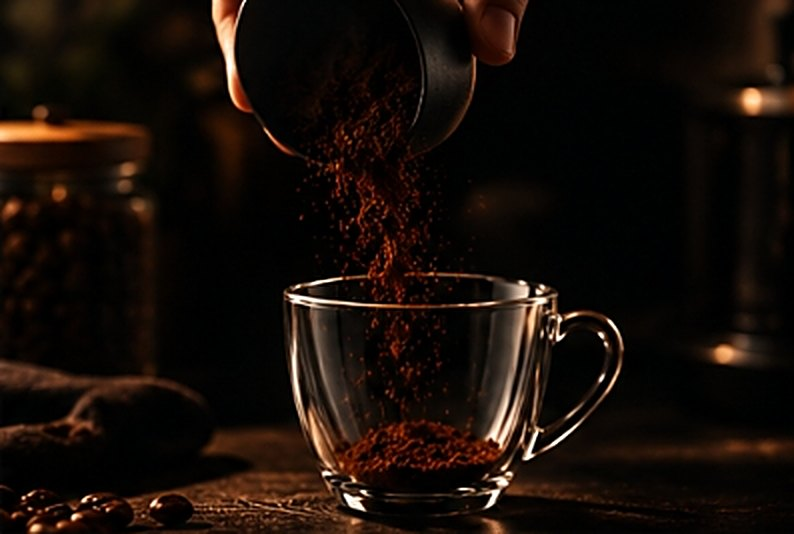
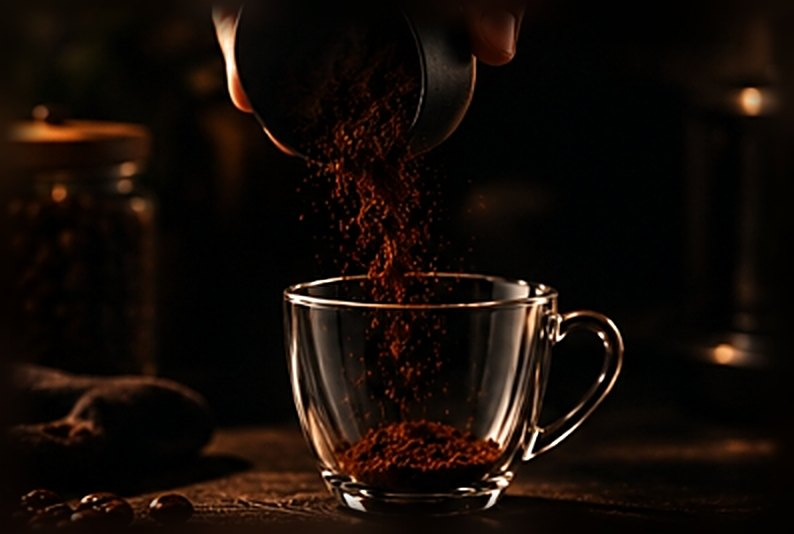
Filme toca sozinho, em loop, com câmera contínua
Volta a tocar automaticamente (cerca de 30 s) com fade do preto entre as
voltas; a abertura volta a ter uma tela de altura. A câmera segue uma
curva contínua entre os quadros, sem paradas, e as fusões ficaram mais
longas. O fundo desfocado e as bordas esfumadas agora vêm prontos nas
imagens, sem filtros no navegador, para rodar leve no celular.

Claude-Session: https://claude.ai/code/session_01HkmzzNXFdck3yYgHHjWYQh

diff --git a/index.html b/index.html
@@ -252,8 +252,11 @@ main .btn, main .tab { text-shadow: none; }
   position: relative; min-height: 70vh; display: grid; place-items: center; overflow: hidden;
   isolation: isolate;
 }
-.film-on .film { height: 640vh; }
-.film-on .film-sticky { position: sticky; top: 0; height: 100vh; height: 100svh; min-height: 0; }
+.film-on .film-sticky {
+  height: calc(100vh - var(--header-h));
+  height: calc(100svh - var(--header-h) - env(safe-area-inset-top, 0px));
+  min-height: 480px;
+}
 .film-bg {
   position: fixed; left: 0; right: 0; top: 0; z-index: 0; pointer-events: none; overflow: hidden;
   height: 100vh; height: 100lvh; background: #0a0604;
@@ -263,19 +266,12 @@ main .btn, main .tab { text-shadow: none; }
 .film-frames { position: absolute; inset: 0; }
 .ff { position: absolute; inset: 0; overflow: hidden; opacity: 0; }
 .ff:first-child { opacity: 1; }
-.ff-fill {
-  position: absolute; inset: 0; width: 100%; height: 100%; object-fit: cover;
-  filter: blur(26px) brightness(.5) saturate(1.1); transform: scale(1.15);
-}
+.ff-fill { position: absolute; inset: 0; width: 100%; height: 100%; object-fit: cover; }
 .ff-img { position: absolute; inset: 0; width: 100%; height: 100%; object-fit: cover; }
 .film-on .ff { visibility: hidden; will-change: opacity; }
 .film-on .ff-img {
   inset: auto; left: 0; top: 0; width: auto; height: auto; max-width: none; object-fit: fill;
   transform-origin: 0 0; will-change: transform;
-  -webkit-mask-image: linear-gradient(to right, transparent, #000 7%, #000 93%, transparent), linear-gradient(to bottom, transparent, #000 8%, #000 92%, transparent);
-  -webkit-mask-composite: source-in;
-  mask-image: linear-gradient(to right, transparent, #000 7%, #000 93%, transparent), linear-gradient(to bottom, transparent, #000 8%, #000 92%, transparent);
-  mask-composite: intersect;
 }
 .film-bg::after {
   content: ""; position: absolute; inset: 0; pointer-events: none; z-index: 1;
@@ -348,12 +344,11 @@ main .btn, main .tab { text-shadow: none; }
   padding-left: var(--gutter-l); padding-right: var(--gutter-r);
   opacity: 0; visibility: hidden;
 }
-.film-end p { font: 600 clamp(1.3rem, 5.4vw, 2.4rem)/1.25 var(--font-display); letter-spacing: .22em; text-transform: uppercase; color: var(--film-gold); }
+.film-end p { font: 600 clamp(1.3rem, 5.4vw, 2.4rem)/1.25 var(--font-display); letter-spacing: .22em; text-transform: uppercase; color: var(--film-gold); text-shadow: 0 2px 22px rgba(0, 0, 0, .9), 0 0 2px rgba(0, 0, 0, .6); }
 @media (min-width: 760px) {
   .film-caption { bottom: 64px; }
   .film-bar { bottom: 40px; max-width: 420px; }
   .bg-pause { bottom: 24px; }
-  .film-on .film { height: 720vh; }
 }
 @media (hover: hover) and (pointer: fine) {
   .film-skip, .bg-pause { transition: color 160ms ease, border-color 160ms ease; }
@@ -405,19 +400,19 @@ main .btn, main .tab { text-shadow: none; }
 
 <div class="film-bg" aria-hidden="true">
   <div class="film-frames" id="filmFrames">
-    <div class="ff"><img class="ff-fill" src="film/f01.jpg" alt="" decoding="async"><img class="ff-img" src="film/f01.jpg" width="796" height="534" alt="" decoding="async"></div>
-    <div class="ff"><img class="ff-fill" src="film/f02.jpg" alt="" decoding="async"><img class="ff-img" src="film/f02.jpg" width="806" height="534" alt="" decoding="async"></div>
-    <div class="ff"><img class="ff-fill" src="film/f03.jpg" alt="" decoding="async"><img class="ff-img" src="film/f03.jpg" width="794" height="534" alt="" decoding="async"></div>
-    <div class="ff"><img class="ff-fill" src="film/f04.jpg" alt="" decoding="async"><img class="ff-img" src="film/f04.jpg" width="796" height="532" alt="" decoding="async"></div>
-    <div class="ff"><img class="ff-fill" src="film/f05.jpg" alt="" decoding="async"><img class="ff-img" src="film/f05.jpg" width="806" height="532" alt="" decoding="async"></div>
-    <div class="ff"><img class="ff-fill" src="film/f06.jpg" alt="" decoding="async"><img class="ff-img" src="film/f06.jpg" width="794" height="532" alt="" decoding="async"></div>
-    <div class="ff"><img class="ff-fill" src="film/f07.jpg" alt="" decoding="async"><img class="ff-img" src="film/f07.jpg" width="796" height="528" alt="" decoding="async"></div>
-    <div class="ff"><img class="ff-fill" src="film/f08.jpg" alt="" decoding="async"><img class="ff-img" src="film/f08.jpg" width="596" height="540" alt="" decoding="async"></div>
-    <div class="ff"><img class="ff-fill" src="film/f09.jpg" alt="" decoding="async"><img class="ff-img" src="film/f09.jpg" width="598" height="540" alt="" decoding="async"></div>
-    <div class="ff"><img class="ff-fill" src="film/f10.jpg" alt="" decoding="async"><img class="ff-img" src="film/f10.jpg" width="594" height="540" alt="" decoding="async"></div>
-    <div class="ff"><img class="ff-fill" src="film/f11.jpg" alt="" decoding="async"><img class="ff-img" src="film/f11.jpg" width="594" height="664" alt="" decoding="async"></div>
-    <div class="ff"><img class="ff-fill" src="film/f12.jpg" alt="" decoding="async"><img class="ff-img" src="film/f12.jpg" width="596" height="664" alt="" decoding="async"></div>
-    <div class="ff"><img class="ff-fill" src="film/f13.jpg" alt="" decoding="async"><img class="ff-img" src="film/f13.jpg" width="598" height="664" alt="" decoding="async"></div>
+    <div class="ff"><img class="ff-fill" src="film/f01-bg.jpg" alt="" decoding="async"><img class="ff-img" src="film/f01.jpg" width="796" height="534" alt="" decoding="async"></div>
+    <div class="ff"><img class="ff-fill" src="film/f02-bg.jpg" alt="" decoding="async"><img class="ff-img" src="film/f02.jpg" width="806" height="534" alt="" decoding="async"></div>
+    <div class="ff"><img class="ff-fill" src="film/f03-bg.jpg" alt="" decoding="async"><img class="ff-img" src="film/f03.jpg" width="794" height="534" alt="" decoding="async"></div>
+    <div class="ff"><img class="ff-fill" src="film/f04-bg.jpg" alt="" decoding="async"><img class="ff-img" src="film/f04.jpg" width="796" height="532" alt="" decoding="async"></div>
+    <div class="ff"><img class="ff-fill" src="film/f05-bg.jpg" alt="" decoding="async"><img class="ff-img" src="film/f05.jpg" width="806" height="532" alt="" decoding="async"></div>
+    <div class="ff"><img class="ff-fill" src="film/f06-bg.jpg" alt="" decoding="async"><img class="ff-img" src="film/f06.jpg" width="794" height="532" alt="" decoding="async"></div>
+    <div class="ff"><img class="ff-fill" src="film/f07-bg.jpg" alt="" decoding="async"><img class="ff-img" src="film/f07.jpg" width="796" height="528" alt="" decoding="async"></div>
+    <div class="ff"><img class="ff-fill" src="film/f08-bg.jpg" alt="" decoding="async"><img class="ff-img" src="film/f08.jpg" width="596" height="540" alt="" decoding="async"></div>
+    <div class="ff"><img class="ff-fill" src="film/f09-bg.jpg" alt="" decoding="async"><img class="ff-img" src="film/f09.jpg" width="598" height="540" alt="" decoding="async"></div>
+    <div class="ff"><img class="ff-fill" src="film/f10-bg.jpg" alt="" decoding="async"><img class="ff-img" src="film/f10.jpg" width="594" height="540" alt="" decoding="async"></div>
+    <div class="ff"><img class="ff-fill" src="film/f11-bg.jpg" alt="" decoding="async"><img class="ff-img" src="film/f11.jpg" width="594" height="664" alt="" decoding="async"></div>
+    <div class="ff"><img class="ff-fill" src="film/f12-bg.jpg" alt="" decoding="async"><img class="ff-img" src="film/f12.jpg" width="596" height="664" alt="" decoding="async"></div>
+    <div class="ff"><img class="ff-fill" src="film/f13-bg.jpg" alt="" decoding="async"><img class="ff-img" src="film/f13.jpg" width="598" height="664" alt="" decoding="async"></div>
   </div>
   <canvas class="film-canvas" id="filmCanvas"></canvas>
   <div class="film-grain" id="filmGrain"></div>
@@ -445,7 +440,6 @@ main .btn, main .tab { text-shadow: none; }
       <div class="film-title" id="filmTitle">
         <span class="eyebrow">Torra Lenta apresenta</span>
         <h2>Do grão à xícara</h2>
-        <span class="film-hint"><i></i>Role para assistir</span>
       </div>
       <div class="film-end" id="filmEnd">
         <p>Café é sempre<br>uma boa ideia</p>
@@ -777,7 +771,7 @@ main .btn, main .tab { text-shadow: none; }
 })();
 </script>
 <script>
-/* ---------- Filme: as imagens de referência viram um comercial, conduzido pela rolagem ---------- */
+/* ---------- Filme: as imagens de referência viram um comercial que toca sozinho ---------- */
 (function () {
   var section = document.getElementById("filme");
   var stage = document.getElementById("filmFrames");
@@ -790,7 +784,7 @@ main .btn, main .tab { text-shadow: none; }
   function clamp(v) { return v < 0 ? 0 : v > 1 ? 1 : v; }
   function lerp(a, b, k) { return a + (b - a) * k; }
   function seg(p, a, b) { return clamp((p - a) / (b - a)); }
-  function smooth(k) { return k * k * (3 - 2 * k); }
+  function ease(k) { return .5 - .5 * Math.cos(PI * k); }
   function hash(n) { var x = Math.sin(n * 127.1 + 311.7) * 43758.5453; return x - Math.floor(x); }
 
   var STEPS = [
@@ -798,26 +792,26 @@ main .btn, main .tab { text-shadow: none; }
     "O café cai na xícara", "Grão a grão, ele se acumula", "Pronto para a água",
     "A água quente encontra o pó", "Nasce a crema", "O aroma toma conta", "Bons momentos começam aqui"
   ];
-  // Cada quadro: passo da legenda, peso no tempo, grupo de câmera (A ou B) ou enquadramento próprio.
+  // Cada quadro: passo da legenda, duração em segundos, grupo de câmera (A, B ou C) ou enquadramento próprio.
   // "a": alinhamento ao quadro de referência do grupo, medido por correlação de imagem
   //      [largura relativa, deslocamento x, deslocamento y], em larguras da referência.
   // "cam": grupo -> [altura da borda da xícara na tela, zoom]; próprio -> [zoom inicial, zoom final].
   // "pow": fio de pó [x0, y0, x1, y1, largura, densidade]; "pour": fio de líquido [x0, y0, x1, y1, largura];
   // "steam": vapor [x, y, abertura, intensidade]. Coordenadas em fração do próprio quadro.
   var FR = [
-    { n: 1, step: 0, wt: 1.3, g: "A", a: [1, 0, 0], cam: [.52, 1] },
-    { n: 2, step: 1, wt: 1.1, g: "A", a: [1.1442, -.04, -.1925], cam: [.64, 1.02] },
-    { n: 3, step: 2, wt: 1, g: "A", a: [1.0673, -.06, -.0725], cam: [.62, 1.04], pow: [.482, .2, .488, .84, .05, .7] },
-    { n: 4, step: 3, wt: .9, g: "A", a: [.96, .0175, -.005], cam: [.58, 1.06], pow: [.52, 0, .45, .87, .08, 1] },
-    { n: 5, step: 3, wt: .9, g: "A", a: [.9113, .0275, .03], cam: [.58, 1.08], pow: [.505, 0, .49, .8, .09, 1] },
-    { n: 6, step: 4, wt: 1, g: "A", a: [.9277, .0375, .0075], cam: [.58, 1.1], pow: [.525, .26, .52, .6, .02, .25] },
-    { n: 7, step: 5, wt: 1.1, g: "A", a: [.96, .0075, .02], cam: [.54, 1.14] },
-    { n: 8, step: 6, wt: 1.2, g: "B", a: [1, 0, 0], cam: [.45, 1], pour: [.547, 0, .449, .625, .022], steam: [.45, .5, .4, .25] },
-    { n: 9, step: 7, wt: 1, g: "B", a: [.9632, .0225, .0325], cam: [.47, 1.07], steam: [.49, .52, .45, .35] },
-    { n: 10, step: 7, wt: 1, focus: [.05, .05, .9, .85], cam: [1, 1.1], pour: [.58, 0, .46, .62, .06] },
-    { n: 11, step: 8, wt: 1, g: "C", a: [1, 0, 0], cam: [.56, 1], steam: [.42, .42, .45, .8] },
-    { n: 12, step: 8, wt: 1.1, g: "C", a: [1.1713, -.1128, -.0941], cam: [.56, 1.1], steam: [.5, .46, .32, .9] },
-    { n: 13, step: 9, wt: 1.4, focus: [0, .15, 1, .8], cam: [1.04, 1.2], steam: [.45, .55, .5, .8] }
+    { n: 1, step: 0, d: 2.8, g: "A", a: [1, 0, 0], cam: [.52, 1] },
+    { n: 2, step: 1, d: 2.2, g: "A", a: [1.1442, -.04, -.1925], cam: [.64, 1.02] },
+    { n: 3, step: 2, d: 2, g: "A", a: [1.0673, -.06, -.0725], cam: [.62, 1.04], pow: [.482, .2, .488, .84, .05, .7] },
+    { n: 4, step: 3, d: 1.8, g: "A", a: [.96, .0175, -.005], cam: [.58, 1.06], pow: [.52, 0, .45, .87, .08, 1] },
+    { n: 5, step: 3, d: 1.8, g: "A", a: [.9113, .0275, .03], cam: [.58, 1.08], pow: [.505, 0, .49, .8, .09, 1] },
+    { n: 6, step: 4, d: 2, g: "A", a: [.9277, .0375, .0075], cam: [.58, 1.1], pow: [.525, .26, .52, .6, .02, .25] },
+    { n: 7, step: 5, d: 2.2, g: "A", a: [.96, .0075, .02], cam: [.54, 1.14] },
+    { n: 8, step: 6, d: 2.4, g: "B", a: [1, 0, 0], cam: [.45, 1], pour: [.547, 0, .449, .625, .022], steam: [.45, .5, .4, .25] },
+    { n: 9, step: 7, d: 2.2, g: "B", a: [.9632, .0225, .0325], cam: [.47, 1.07], steam: [.49, .52, .45, .35] },
+    { n: 10, step: 7, d: 2.2, focus: [.05, .05, .9, .85], cam: [1, 1.1], pour: [.58, 0, .46, .62, .06] },
+    { n: 11, step: 8, d: 2.2, g: "C", a: [1, 0, 0], cam: [.56, 1], steam: [.42, .42, .45, .8] },
+    { n: 12, step: 8, d: 2.4, g: "C", a: [1.1713, -.1128, -.0941], cam: [.56, 1.1], steam: [.5, .46, .32, .9] },
+    { n: 13, step: 9, d: 4.2, focus: [0, .15, 1, .8], cam: [1.02, 1.22], steam: [.45, .55, .5, .8] }
   ];
   // Referência de cada grupo: centro da borda da xícara e largura da xícara (fração do quadro).
   var GROUP = {
@@ -826,14 +820,19 @@ main .btn, main .tab { text-shadow: none; }
     C: { ref: 10, anchor: [.474, .468], cupw: .653 }
   };
 
-  // Tempo de cada quadro na rolagem e janelas de fusão
+  // Linha do tempo (fração do filme) e fusões: longas dentro da mesma câmera, mais curtas entre tomadas
+  var D = 0;
   (function () {
-    var tot = 0, i, acc = 0;
-    for (i = 0; i < FR.length; i++) tot += FR[i].wt;
-    for (i = 0; i < FR.length; i++) { FR[i].a0 = acc / tot; acc += FR[i].wt; FR[i].a1 = acc / tot; }
+    var acc = 0, i;
+    for (i = 0; i < FR.length; i++) D += FR[i].d;
+    for (i = 0; i < FR.length; i++) { FR[i].a0 = acc / D; acc += FR[i].d; FR[i].a1 = acc / D; }
     for (i = 0; i < FR.length; i++) {
-      FR[i].c = i === 0 ? 0 : i === FR.length - 1 ? 1 : (FR[i].a0 + FR[i].a1) / 2;
-      if (i < FR.length - 1) FR[i].hw = .3 * Math.min(FR[i].a1 - FR[i].a0, FR[i + 1].a1 - FR[i + 1].a0);
+      FR[i].c = i === 0 ? 0 : (FR[i].a0 + FR[i].a1) / 2;
+      if (i < FR.length - 1) {
+        var same = FR[i].g && FR[i].g === FR[i + 1].g, match = FR[i].g === "A" && FR[i + 1].g === "B";
+        FR[i].hw = (same ? .48 : match ? .45 : .34) * Math.min(FR[i].a1 - FR[i].a0, FR[i + 1].a1 - FR[i + 1].a0);
+      }
+      if (i > 0) FR[i].prevHw = FR[i - 1].hw;
     }
   })();
 
@@ -844,41 +843,59 @@ main .btn, main .tab { text-shadow: none; }
     f.op = -1; f.tf = "";
   });
 
-  var W = 0, H = 0, dpr = 1, portrait = false;
+  /* ---------- Câmera: curva contínua (sem paradas entre quadros) ---------- */
+  function withTangents(keys) {
+    var n = keys.length;
+    keys.forEach(function (k, i) {
+      if (k.m) return;
+      var a = keys[Math.max(0, i - 1)], b = keys[Math.min(n - 1, i + 1)];
+      k.m = k.v.map(function (v, j) { return b.t === a.t ? 0 : (b.v[j] - a.v[j]) / (b.t - a.t); });
+    });
+    return keys;
+  }
+  function curve(keys, p) {
+    var n = keys.length, i;
+    if (p <= keys[0].t) return keys[0].v.map(function (v, j) { return v + keys[0].m[j] * (p - keys[0].t); });
+    if (p >= keys[n - 1].t) return keys[n - 1].v.map(function (v, j) { return v + keys[n - 1].m[j] * (p - keys[n - 1].t); });
+    for (i = 0; i < n - 1; i++) if (p <= keys[i + 1].t) break;
+    var a = keys[i], b = keys[i + 1], h = b.t - a.t, s = (p - a.t) / h, s2 = s * s, s3 = s2 * s;
+    var h00 = 2 * s3 - 3 * s2 + 1, h10 = s3 - 2 * s2 + s, h01 = -2 * s3 + 3 * s2, h11 = s3 - s2;
+    return a.v.map(function (v, j) { return h00 * v + h10 * h * a.m[j] + h01 * b.v[j] + h11 * h * b.m[j]; });
+  }
+  function keysOf(g) {
+    return withTangents(FR.filter(function (f) { return f.g === g; }).map(function (f) { return { t: f.c, v: f.cam.slice() }; }));
+  }
+  var KA = keysOf("A"), KC = keysOf("C"), KB = null, T_AB = FR[6].a1 + FR[6].hw;
+
+  var W = 0, H = 0, dpr = 1, portrait = false, rAB = 1;
+  function cupTarget(g) {
+    if (g === "A") return portrait ? W * .6 : Math.min(W * .4, H * .62);
+    return portrait ? W * .72 : Math.min(W * .42, H * .75);
+  }
+  // Corte casado: durante a fusão da cena A para a B, a câmera B copia a A (mesma xícara, mesmo lugar)
+  // e depois segue suave até o próprio enquadramento.
+  function matchA(p) { var v = curve(KA, p); return [v[0], v[1] * rAB]; }
+  function buildKB() {
+    var e = .002, v = matchA(T_AB), v1 = matchA(T_AB + e), v0 = matchA(T_AB - e);
+    KB = withTangents([
+      { t: T_AB, v: v, m: [(v1[0] - v0[0]) / (2 * e), (v1[1] - v0[1]) / (2 * e)] },
+      { t: FR[8].c, v: FR[8].cam.slice() }
+    ]);
+  }
+  function groupCam(g, p) {
+    if (g === "A") return curve(KA, p);
+    if (g === "B") return p < T_AB ? matchA(p) : curve(KB, p);
+    return curve(KC, p);
+  }
   function layout() {
     var r = canvas.getBoundingClientRect();
     if (!r.width || !r.height) return false;
     W = r.width; H = r.height; portrait = W / H < 1;
     dpr = Math.min(window.devicePixelRatio || 1, W < 700 ? 1.75 : 2);
     canvas.width = Math.round(W * dpr); canvas.height = Math.round(H * dpr);
+    rAB = cupTarget("A") / cupTarget("B");
+    buildKB();
     return true;
-  }
-
-  // Largura da xícara na tela, por grupo de câmera
-  function cupTarget(g) {
-    if (g === "A") return portrait ? W * .6 : Math.min(W * .4, H * .62);
-    return portrait ? W * .72 : Math.min(W * .42, H * .75);
-  }
-  // Câmera do grupo: interpola altura e zoom entre os quadros do grupo, pelo centro de cada um.
-  // Corte casado: a primeira posição do grupo B repete a xícara do fim do grupo A (mesmo tamanho e lugar),
-  // para a fusão entre as cenas não mostrar duas xícaras diferentes.
-  function camKey(f) {
-    if (f.n === 8) {
-      var lastA = FR[6].cam;
-      return [lastA[0], lastA[1] * cupTarget("A") / cupTarget("B")];
-    }
-    return f.cam;
-  }
-  function groupCam(g, p) {
-    var list = FR.filter(function (f) { return f.g === g; });
-    if (p <= list[0].c) return camKey(list[0]);
-    for (var i = 1; i < list.length; i++) {
-      if (p <= list[i].c) {
-        var k = smooth(seg(p, list[i - 1].c, list[i].c)), a = camKey(list[i - 1]), b = camKey(list[i]);
-        return [lerp(a[0], b[0], k), lerp(a[1], b[1], k)];
-      }
-    }
-    return camKey(list[list.length - 1]);
   }
   // Posição do quadro na tela: x, y do canto e largura exibida
   function place(f, p) {
@@ -896,22 +913,21 @@ main .btn, main .tab { text-shadow: none; }
       var cover = Math.max(W / f.w, H / f.h), contain = Math.min(W / f.w, H / f.h);
       var s = Math.min(cover, Math.max(contain, Math.min(W / fw, H / fh))) * z;
       dw = f.w * s;
-      x = W / 2 - (f.focus[0] + f.focus[2] / 2) * dw;
-      y = H / 2 - (f.focus[1] + f.focus[3] / 2) * f.h * s;
       var dh = f.h * s;
+      x = W / 2 - (f.focus[0] + f.focus[2] / 2) * dw;
+      y = H / 2 - (f.focus[1] + f.focus[3] / 2) * dh;
       if (dw > W) x = Math.min(0, Math.max(W - dw, x)); else x = (W - dw) / 2;
       if (dh > H) y = Math.min(0, Math.max(H - dh, y)); else y = (H - dh) / 2;
     }
     return { x: x, y: y, w: dw, h: dw * f.h / f.w };
   }
-  FR.forEach(function (f, i) { if (i > 0) f.prevHw = FR[i - 1].hw; });
 
   // Quais quadros aparecem e com que opacidade (o de cima funde por cima do de baixo)
   function visibleAt(p) {
     for (var i = 0; i < FR.length; i++) {
       var f = FR[i];
       if (i < FR.length - 1 && p >= f.a1 - f.hw && p <= f.a1 + f.hw) {
-        return [[i, 1], [i + 1, smooth(seg(p, f.a1 - f.hw, f.a1 + f.hw))]];
+        return [[i, 1], [i + 1, ease(seg(p, f.a1 - f.hw, f.a1 + f.hw))]];
       }
       if (p < f.a1 || i === FR.length - 1) return [[i, 1]];
     }
@@ -1000,15 +1016,15 @@ main .btn, main .tab { text-shadow: none; }
   var text = document.getElementById("filmText"), bar = document.getElementById("filmBar");
   var shown = 0, swapTimer = 0;
   function overlays(p, vis) {
-    var ta = 1 - seg(p, .006, .045);
+    var ta = 1 - seg(p, .05, .085);
     title.style.opacity = String(ta);
     title.style.transform = "translateY(calc(-50% - " + (1 - ta) * 40 + "px))";
     title.style.visibility = ta <= 0 ? "hidden" : "visible";
-    var ea = seg(p, .955, .99);
+    var ea = seg(p, .9, .925) * (1 - seg(p, .975, .995));
     end.style.opacity = String(ea);
     end.style.transform = "translateY(" + (1 - ea) * 16 + "px)";
     end.style.visibility = ea <= 0 ? "hidden" : "visible";
-    cap.style.opacity = String(seg(p, .03, .06));
+    cap.style.opacity = String(seg(p, .07, .1) * (1 - seg(p, .975, .995)));
     bar.style.transform = "scaleX(" + p + ")";
     var top = vis.length > 1 && vis[1][1] > .5 ? vis[1][0] : vis[0][0];
     var idx = FR[top].step;
@@ -1024,7 +1040,7 @@ main .btn, main .tab { text-shadow: none; }
     }
   }
 
-  /* ---------- Desenho de um quadro do filme ---------- */
+  /* ---------- Desenho de um momento do filme ---------- */
   function render(p, t, ambient) {
     var vis = visibleAt(p), on = {}, i;
     for (i = 0; i < vis.length; i++) on[vis[i][0]] = vis[i][1];
@@ -1046,12 +1062,15 @@ main .btn, main .tab { text-shadow: none; }
       if (f.steam) drawSteam(f.steam, P, op, t);
     }
     drawMotes(t, ambient);
+    // fade do preto no começo e no fim de cada volta
+    var black = Math.max(1 - seg(p, 0, .03), seg(p, .975, 1));
+    if (black > 0) { ctx.globalAlpha = black; ctx.fillStyle = "#0a0604"; ctx.fillRect(0, 0, W, H); }
     ctx.globalAlpha = 1;
     overlays(p, vis);
   }
 
-  /* ---------- Laço: rolagem conduz o filme; vapor e partículas seguem vivos ---------- */
-  var target = 0, cur = 0, last = 0, amb = 0, paused = false, lastDraw = 0, inSection = true, dirty = true;
+  /* ---------- Laço: o filme toca sozinho e recomeça ---------- */
+  var clock = 0, last = 0, amb = 0, paused = false, ready = false, lastDraw = 0, inSection = true, dirty = true;
   var pauseBtns = document.querySelectorAll("[data-film-pause]");
   function setPaused(v) {
     paused = v;
@@ -1061,22 +1080,21 @@ main .btn, main .tab { text-shadow: none; }
     });
   }
   pauseBtns.forEach(function (b) { b.addEventListener("click", function () { setPaused(!paused); }); });
-  function progress() {
-    var r = section.getBoundingClientRect(), span = r.height - window.innerHeight;
-    return span > 0 ? clamp(-r.top / span) : 0;
-  }
+  // Só começa quando todas as fotos estiverem prontas na memória (sem engasgos na primeira volta)
+  Promise.all(FR.map(function (f) {
+    return f.img.decode ? f.img.decode().catch(function () {}) : Promise.resolve();
+  })).then(function () { ready = true; });
+  setTimeout(function () { ready = true; }, 6000);
+
   function frame(now) {
-    var t = now / 1000, dt = Math.min(.1, last ? t - last : .016);
+    var t = now / 1000, dt = Math.min(.05, last ? t - last : .016);
     last = t;
-    if (!paused) amb += dt;
-    target = progress();
-    cur += (target - cur) * (1 - Math.exp(-dt * 6));
-    if (Math.abs(target - cur) < .0002) cur = target;
+    if (ready && !paused) { clock = (clock + dt) % D; amb += dt; }
     if (dirty) { dirty = !layout(); }
-    // Na seção do filme, todo quadro; atrás do conteúdo, ~30 por segundo para poupar bateria
-    if (inSection || now - lastDraw > 32) {
+    // Na abertura, todo quadro; atrás do conteúdo, ~30 por segundo para poupar bateria
+    if (!dirty && (inSection || now - lastDraw > 32)) {
       lastDraw = now;
-      render(cur, amb, inSection ? 1 : .6);
+      render(clock / D, amb, inSection ? 1 : .6);
     }
     requestAnimationFrame(frame);
   }
@@ -1088,7 +1106,7 @@ main .btn, main .tab { text-shadow: none; }
     var r = canvas.getBoundingClientRect();
     if (Math.abs(r.width - lastW) > 1 || Math.abs(r.height - lastH) > 60) { lastW = r.width; lastH = r.height; dirty = true; }
   }, { passive: true });
-  if (layout()) { var r0 = canvas.getBoundingClientRect(); lastW = r0.width; lastH = r0.height; dirty = false; cur = target = progress(); render(cur, 0, 1); }
+  if (layout()) { var r0 = canvas.getBoundingClientRect(); lastW = r0.width; lastH = r0.height; dirty = false; render(0, 0, 1); }
   requestAnimationFrame(frame);
 })();
 </script>
